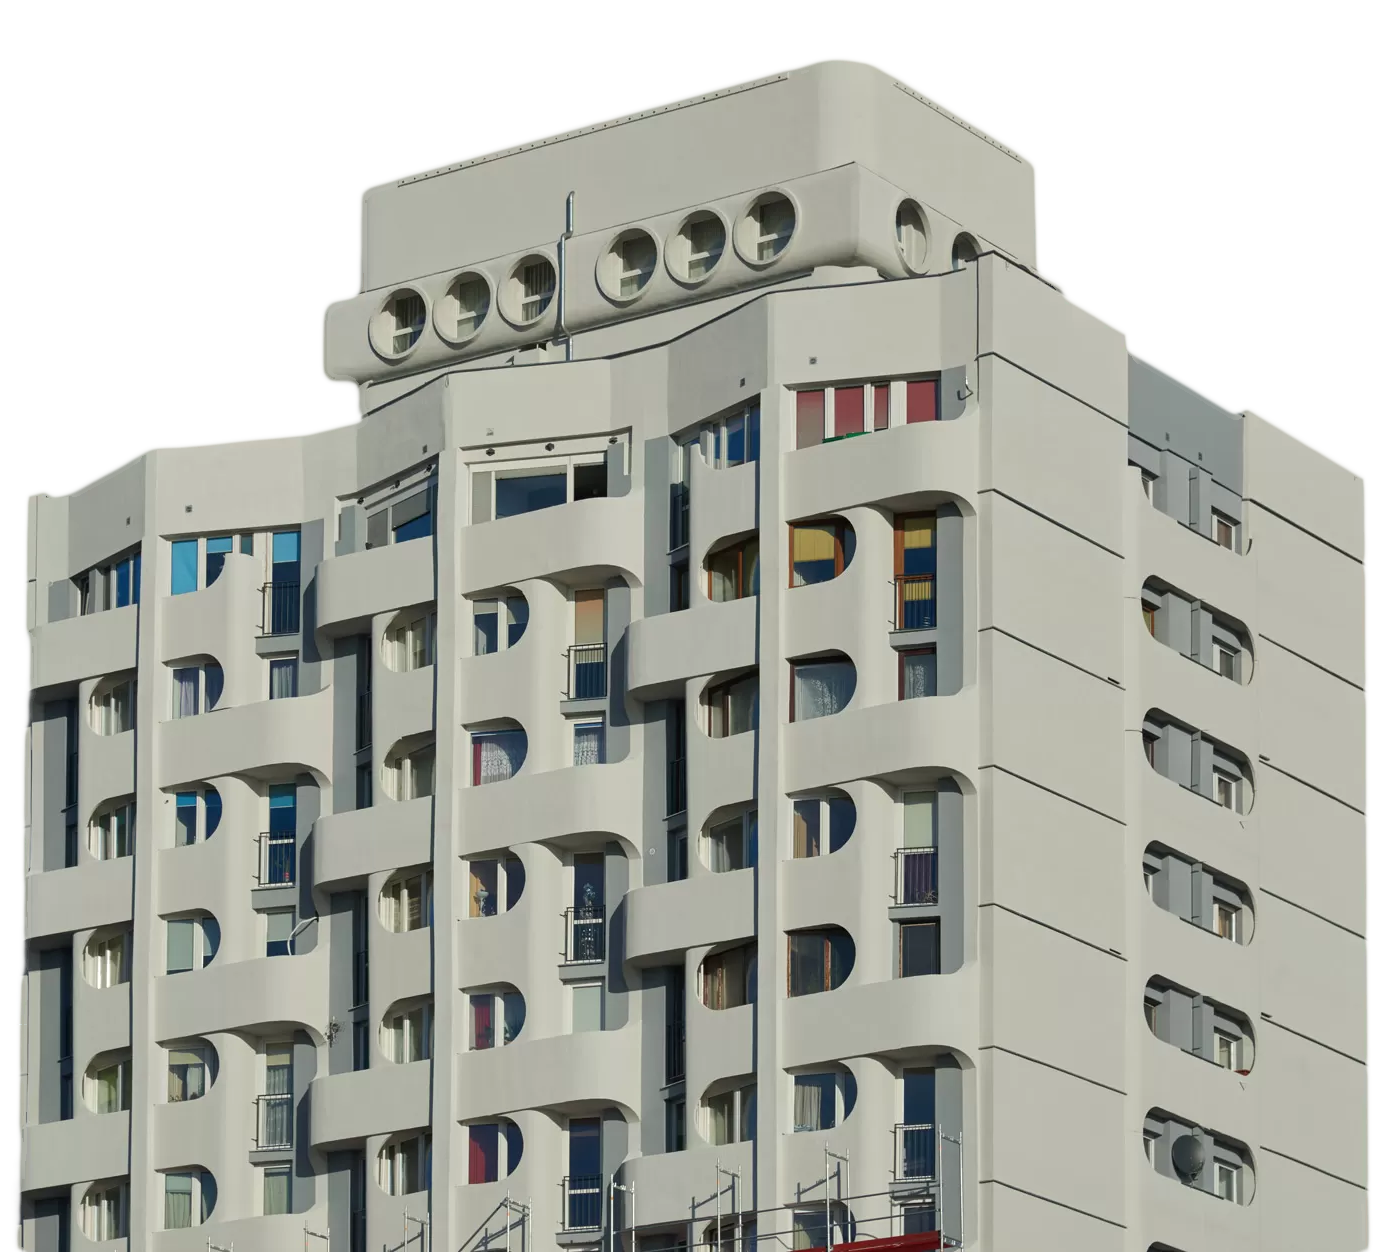
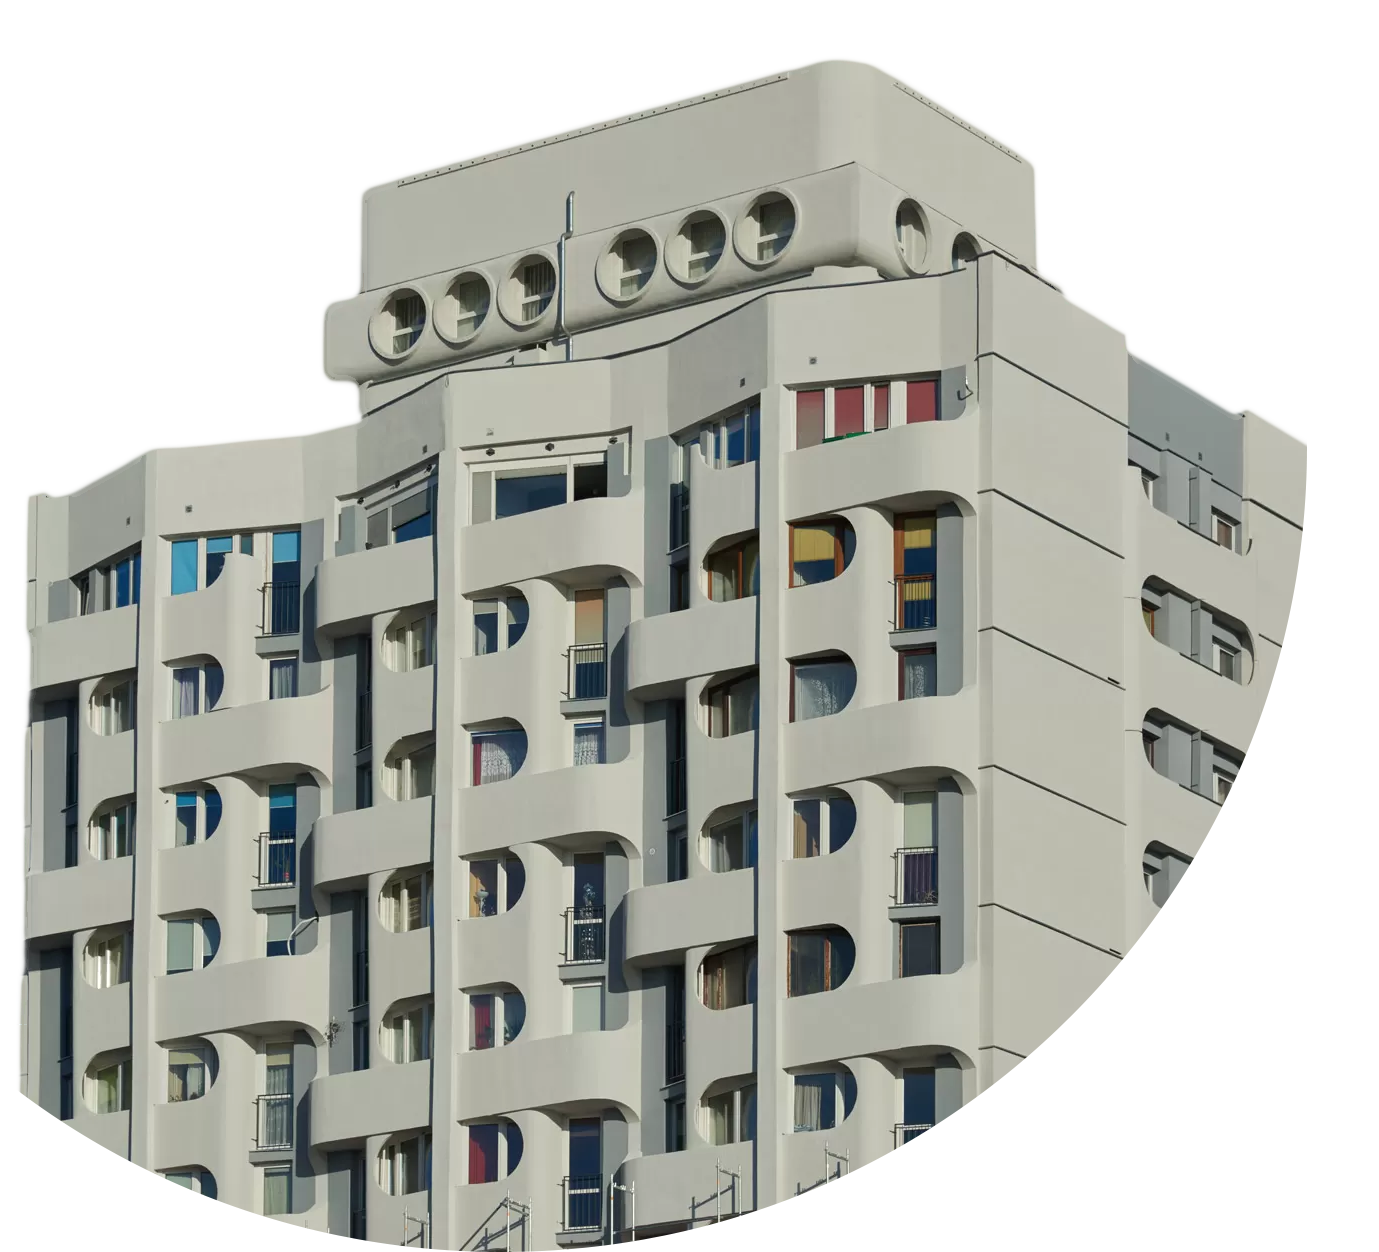
layout change

Changed region(s): [[0.3742, 0.3427, 0.9978, 1.0], [0.0, 0.8722, 0.343, 1.0]]

diff --git a/styles/hero.css b/styles/hero.css
@@ -3,9 +3,21 @@ section.hero {
   grid-column: 1 / -1;
 }
 
+.blurred-oval {
+  position: absolute;
+  background-color: #00ffe0;
+  border-radius: 50%;
+  width: 108rem;
+  height: 108rem;
+  z-index: -1;
+  filter: blur(180px);
+  top: 15rem;
+  right: -60rem;
+}
+
 .hero-container {
   margin: 0 auto;
-  max-width: 120rem;
+  width: 100%;
   height: 100%;
   display: flex;
   overflow: hidden;
@@ -13,13 +25,12 @@ section.hero {
 
 .hero-img {
   flex-basis: 50%;
-  /* object-fit: cover;    to chyba do usunięcia */
   display: flex;
   align-items: end;
 }
 
 .hero-img img {
-  max-width: 100%;
+  max-width: 120%;
 }
 
 .copy-content {
@@ -33,7 +44,7 @@ section.hero {
 .copy-content h1 {
   font-size: 8rem;
   font-weight: bold;
-  line-height: 0.9;
+  line-height: 1.1;
 }
 
 .copy-content h2 {
@@ -43,12 +54,14 @@ section.hero {
 }
 
 .copy-content .btn {
+  color: white;
   font-family: inherit;
   padding: 2rem 5rem;
   border: none;
-  background-color: #bdc5fa;
-  font-size: 1.8rem;
-  font-weight: bold;
+  border-radius: 50px;
+  background-color: #d100ff;
+  font-size: 2rem;
+  font-weight: 400;
   box-shadow: 0px 3px 30px -17px rgba(66, 68, 90, 1);
   display: block;
   transition: all 0.2s ease-out;

diff --git a/index.html b/index.html
@@ -53,11 +53,12 @@
       </div>
     </header>
     <section class="hero">
+      <div class="blurred-oval"></div>
       <div class="hero-container">
         <div class="copy-content">
-          <h1>DISCOVER POPOWICE</h1>
+          <h1>Discover Most Beautiful District</h1>
           <h2>Wrocław’s district like none other</h2>
-          <button class="btn">Tours</button>
+          <button class="btn">learn more</button>
         </div>
         <div class="hero-img">
           <img src="img/sedesowiec_no_bg.png" alt="" />

diff --git a/styles/style.css b/styles/style.css
@@ -20,6 +20,7 @@ body {
   grid-template-columns: repeat(12, 7.5rem);
   grid-gap: 2rem;
   justify-content: center;
+  overflow-x: hidden;
 }
 
 main {
